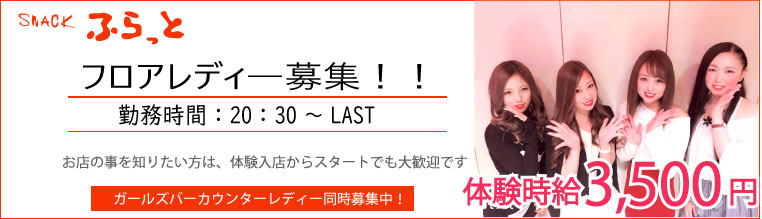
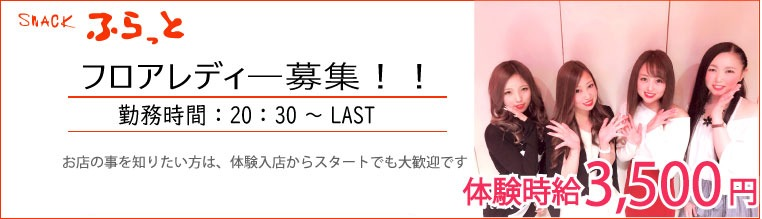
連絡先からLINE・メールを削除し、求人画像のガールズバー同時募集の表記を消去

diff --git a/contact.html b/contact.html
@@ -4,7 +4,7 @@
 <meta charset="UTF-8">
 <meta name="viewport" content="width=device-width, initial-scale=1">
 <title>お問い合わせ・ご予約｜前橋のスナック Snack ふらっと</title>
-<meta name="description" content="前橋市千代田町のスナック ふらっとへのお問い合わせ・ご予約。お電話027-237-0313、メール、LINEで承っています。求人のご相談もお気軽にどうぞ。">
+<meta name="description" content="前橋市千代田町のスナック ふらっとへのお問い合わせ・ご予約。お電話027-237-0313、メールフォームで承っています。求人のご相談もお気軽にどうぞ。">
 <meta name="keywords" content="前橋 スナック,群馬 スナック,前橋市 スナック,千代田町 スナック,カラオケ,飲み放題,フロアレディ 求人,Snack ふらっと">
 <meta name="robots" content="index,follow,max-image-preview:large,max-snippet:-1">
 <meta name="theme-color" content="#ff7a1a">
@@ -15,7 +15,7 @@
 <meta property="og:type" content="website">
 <meta property="og:site_name" content="Snack ふらっと 公式サイト">
 <meta property="og:title" content="お問い合わせ・ご予約｜前橋のスナック Snack ふらっと">
-<meta property="og:description" content="前橋市千代田町のスナック ふらっとへのお問い合わせ・ご予約。お電話027-237-0313、メール、LINEで承っています。求人のご相談もお気軽にどうぞ。">
+<meta property="og:description" content="前橋市千代田町のスナック ふらっとへのお問い合わせ・ご予約。お電話027-237-0313、メールフォームで承っています。求人のご相談もお気軽にどうぞ。">
 <meta property="og:locale" content="ja_JP">
 <meta property="og:url" content="https://maebashi1.github.io/snack-fratt/contact.html">
 <link rel="canonical" href="https://maebashi1.github.io/snack-fratt/contact.html">
@@ -114,18 +114,6 @@
           <span class="label">ご予約・お問い合わせ</span>
           <span class="value">027-237-0313</span>
         </a>
-        <a class="contact-card" href="tel:09033409920">
-          <span class="label">求人のお問い合わせ</span>
-          <span class="value">090-3340-9920</span>
-        </a>
-        <a class="contact-card" href="mailto:fratt2370313@gmail.com">
-          <span class="label">MAIL</span>
-          <span class="value">fratt2370313@gmail.com</span>
-        </a>
-        <a class="contact-card" href="https://line.me/ti/p/vVhIVoa7YR" target="_blank" rel="noopener">
-          <span class="label">LINE</span>
-          <span class="value">友だち追加</span>
-        </a>
       </div>
     </div>
 
@@ -137,7 +125,7 @@
            このサイトは HTML だけで動いているため、フォームの送信には
            外部サービス（Formspree など）の登録が必要です。
            登録後に発行される URL を、下の action="" に貼り付けてください。
-           設定が済むまでは、上の電話・メール・LINE をご利用いただく形になります。
+           設定が済むまでは、上の電話をご利用いただく形になります。
            詳しい手順は README.md の「お問い合わせフォームを使えるようにする」をご覧ください。 -->
       <form class="form" style="margin-top:24px" action="" method="POST">
         <div>

diff --git a/recruit.html b/recruit.html
@@ -162,7 +162,7 @@
         </div>
         <div>
           <dt>応募方法</dt>
-          <dd>お気軽にお電話・メール・LINEでご連絡ください。親切・丁寧に対応いたします。<br>
+          <dd>お気軽にお電話でご連絡ください。親切・丁寧に対応いたします。<br>
               ※お電話の際は『ホームページを見た』とお伝えください。</dd>
         </div>
       </dl>
@@ -174,14 +174,6 @@
         <a class="contact-card" href="tel:09033409920">
           <span class="label">TEL</span>
           <span class="value">090-3340-9920</span>
-        </a>
-        <a class="contact-card" href="mailto:fratt2370313@gmail.com">
-          <span class="label">MAIL</span>
-          <span class="value">fratt2370313@gmail.com</span>
-        </a>
-        <a class="contact-card" href="https://line.me/ti/p/vVhIVoa7YR" target="_blank" rel="noopener">
-          <span class="label">LINE</span>
-          <span class="value">友だち追加</span>
         </a>
       </div>
       <p class="note">迷ったらまずはお気軽にご相談ください。見学だけでも大歓迎です。</p>

diff --git a/index.html b/index.html
@@ -44,7 +44,6 @@
   "description": "群馬県前橋市千代田町のスナック。カラオケ完備、ボトルキープ制の通常料金と時間制プランをご用意。初めての方も入りやすい気さくな雰囲気のお店です。",
   "url": "https://maebashi1.github.io/snack-fratt/",
   "telephone": "+81-27-237-0313",
-  "email": "fratt2370313@gmail.com",
   "image": [
     "https://maebashi1.github.io/snack-fratt/assets/img/shop-01.jpg",
     "https://maebashi1.github.io/snack-fratt/assets/img/shop-02.jpg",

diff --git a/access.html b/access.html
@@ -133,10 +133,6 @@
           <span class="label">TEL</span>
           <span class="value">027-237-0313</span>
         </a>
-        <a class="contact-card" href="mailto:fratt2370313@gmail.com">
-          <span class="label">MAIL</span>
-          <span class="value">fratt2370313@gmail.com</span>
-        </a>
         <a class="contact-card" href="https://www.instagram.com/fratt2370313/" target="_blank" rel="noopener">
           <span class="label">INSTAGRAM</span>
           <span class="value">@fratt2370313</span>
